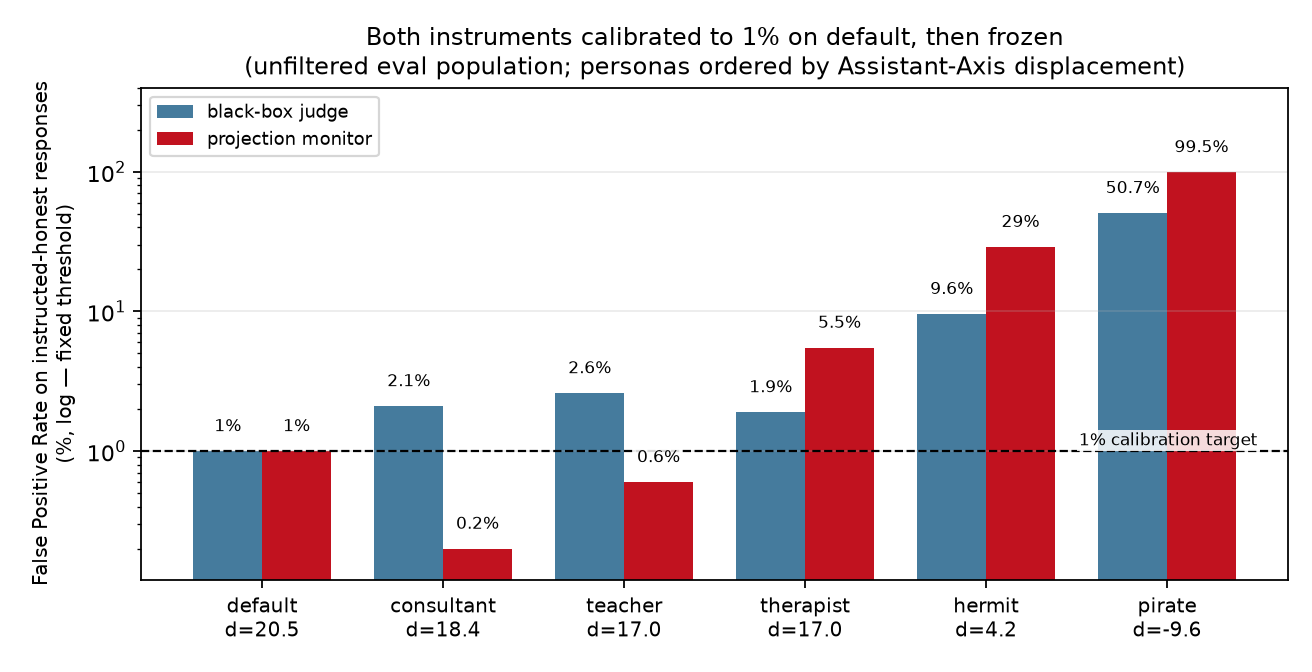
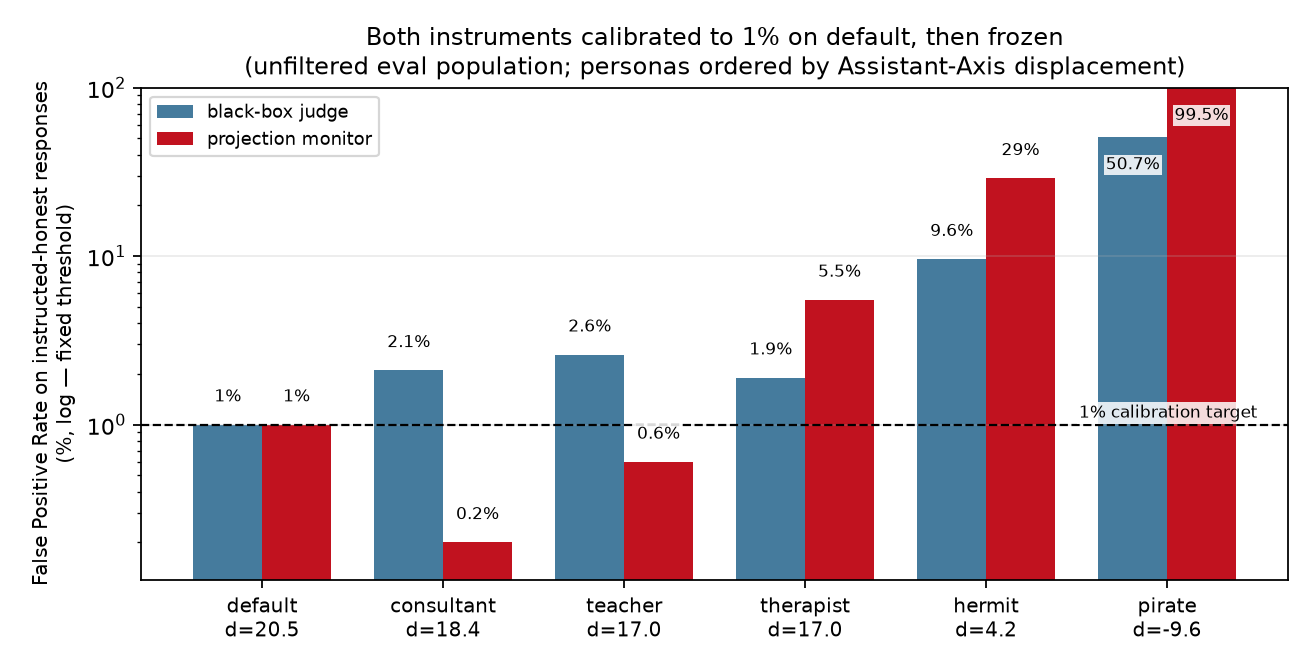
figures: cap false-positive rate axes at 100%
A false-positive rate cannot exceed 100%, but the headline and
matched-calibration panels ran to 10^3.9 and 400% respectively to
make room for labels. Cap both at 100 and reposition the labels that
relied on the extra headroom: the two right-hand personas' callouts
now hang below the line, and bars above 40% carry their label inside.

diff --git a/src/plots.py b/src/plots.py
@@ -53,13 +53,17 @@ def headline(run_dir, out):
         a.axvline(home, ls=":", lw=1.2, color="#777", zorder=1)
 
     # ================= TOP: false-positive rate ======================================
-    ax[0].semilogy(x, [max(f, 1e-2) for f in flag], "o-", color="#c1121f", zorder=3)
+    # clip_on=False so the pirate marker at 99.54% still draws whole against the capped top
+    ax[0].semilogy(x, [max(f, 1e-2) for f in flag], "o-", color="#c1121f", zorder=3,
+                   clip_on=False)
     # the two outer panels are written as a PAIR: panel 1 is threshold-dependent and
     # collapses, panel 3 is threshold-free and does not. That contrast is the finding.
     ax[0].set_ylabel("Sycophancy Monitor False Positive Rate\n"
                      "on instructed-honest responses\n"
                      "(%, log — fixed threshold)", fontsize=8)
-    ax[0].set_ylim(.01, 10 ** 3.9)
+    # top is 100%: a false-positive RATE cannot exceed it, so the axis must not imply it
+    # can. Callout offsets below are chosen to keep every label inside this cap.
+    ax[0].set_ylim(.01, 100)
     def pct(v):
         """default's realized 0.95%, not the 1% target it was fitted to; sub-1% rates keep
         two decimals so 0.25 and 0.36 stay distinguishable."""
@@ -76,8 +80,8 @@ def headline(run_dir, out):
                                       # also below the line, to keep the two apart
         "therapist":  (34, 46),       # up and right
         "teacher":    (40, -20),      # down and right
-        "hermit":     (0, 30),
-        "pirate":     (-20, 28),
+        "hermit":     (-4, -30),      # both of the two right-hand personas sit high on the
+        "pirate":     (-16, -30),     # capped axis, so their callouts hang below the line
     }
     for p_, xi, yi in zip(personas, x, flag):
         ax[0].annotate(f"{p_} ({pct(yi)})", xy=(xi, max(yi, 1e-2)), fontsize=8,
@@ -201,14 +205,22 @@ def matched_calibration(run_dir, out):
     # on the calibration-target dashed line
     lb = dict(ha="center", va="bottom", fontsize=7.5, zorder=5,
               bbox=dict(facecolor="white", edgecolor="none", pad=0.8, alpha=.85))
+    def place(xi, t):
+        """Above the bar normally; tucked inside the bar top once the value is high enough
+        that an outside label would need space above 100%, which the axis no longer has."""
+        if t > 40:
+            ax.text(xi, max(t, .05) / 1.30, lab(t), **{**lb, "va": "top"})
+        else:
+            ax.text(xi, max(t, .05) * 1.30, lab(t), **lb)
     for xi, t in zip(x - w / 2, j):
-        ax.text(xi, max(t, .05) * 1.30, lab(t), **lb)
+        place(xi, t)
     for xi, t in zip(x + w / 2, mo):
-        ax.text(xi, max(t, .05) * 1.30, lab(t), **lb)
+        place(xi, t)
     ax.axhline(1.0, ls="--", lw=1, color="k")
     ax.text(len(order) - .5, 1.10, "1% calibration target", ha="right", fontsize=7.5,
             bbox=dict(facecolor="white", edgecolor="none", pad=1.0, alpha=.85))
-    ax.set_ylim(.12, 400)   # headroom so pirate's 99.5% label clears the top border
+    # top is 100%: a false-positive RATE cannot exceed it (see the same cap on headline())
+    ax.set_ylim(.12, 100)
     ax.set_yscale("log")
     ax.set_ylabel("False Positive Rate on instructed-honest responses\n"
                   "(%, log — fixed threshold)", fontsize=9)
